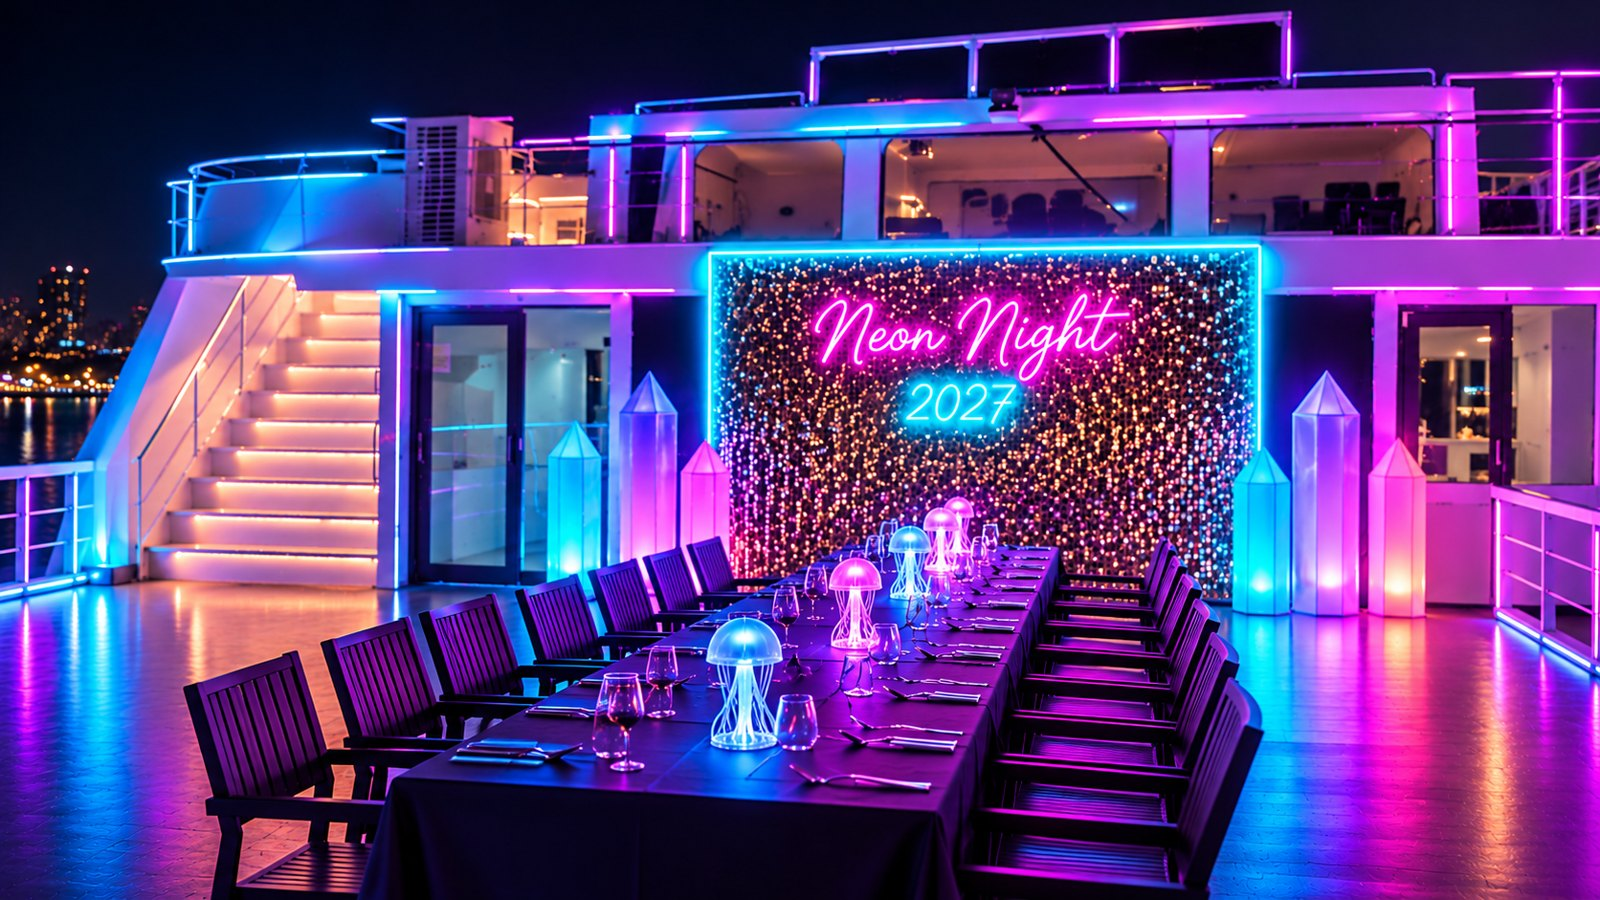
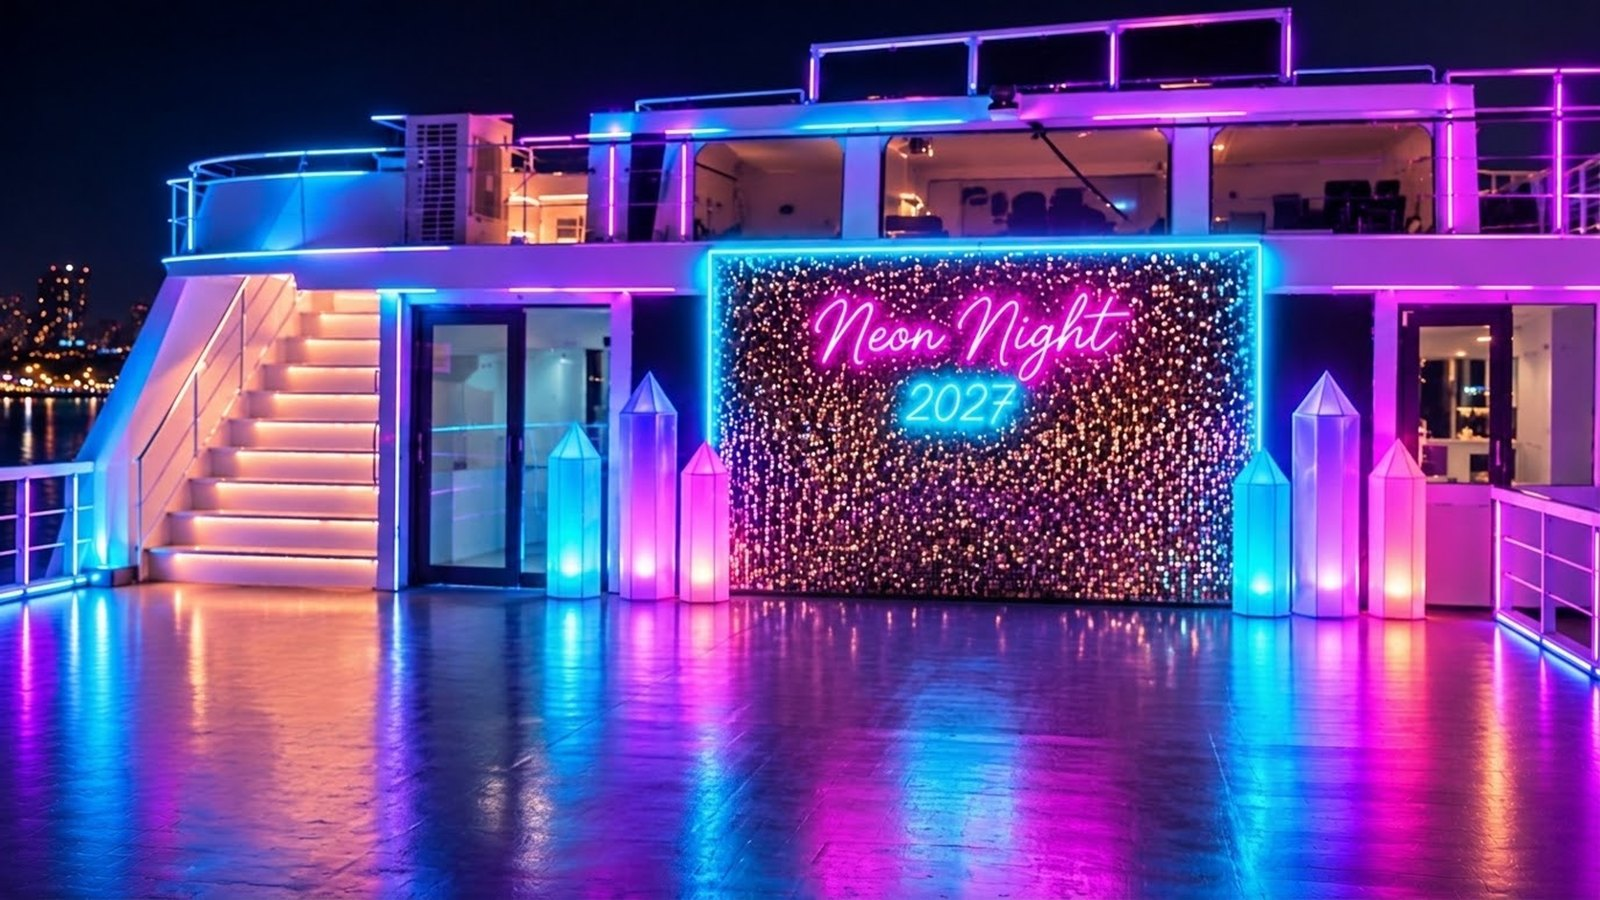
Client 20-11: bow concept picture re-made without tables/chairs (Flow edit) -> zone card + gallery; image cache-bust

diff --git a/app.js b/app.js
@@ -83,7 +83,7 @@ const PLACES = [
     items: {th: ['จอ LED 3×2 ม. ของเรือ แสดงกราฟิก NEON NIGHT', 'กรอบนีออนม่วงรอบจอ และเส้นไฟชมพูหน้าเวที', 'ไฟบีม 8 ตัวยิงขึ้นฟ้า และไฟ PAR 8 ตัว วางพื้นข้างเวที', 'ป้ายนีออน NEON NIGHT ข้างจอ 2 ป้าย'],
       en: ['The boat\u2019s 3 × 2 m LED screen shows the NEON NIGHT graphic', 'Violet neon frame around the screen, pink line along the stage front', '8 beam lights into the sky and 8 PAR lights on the deck beside the stage', 'Two NEON NIGHT neon signs beside the screen']},
     cam: {p: [2.468, 5.047, 0.635], t: [16.6, 5.047, 0.635]}, pin: [16.6, 7.6, 0]},
-  {id: 'bow', imgs: ['3d_bow'], dot: '#D9A85A', seats: 0,
+  {id: 'bow', imgs: ['teen-bow', '3d_bow'], dot: '#D9A85A', seats: 0,
     name: {th: 'หัวเรือชั้น 2 · โฟโต้บูธ', en: 'Bow deck · photo booth'}, sub: {th: 'ลานถ่ายรูปเปิดโล่ง ไม่มีที่นั่ง', en: 'Open photo-booth deck, no seating'},
     items: {th: ['ผนังถ่ายรูปชิมเมอร์ทอง 4×2 ม. ป้ายนีออน "Neon Night 2027"', 'คริสตัลเรืองแสงข้างละ 3 ชิ้น', 'ไฟส่องผนังและไฟส่องหน้า ให้ภาพถ่ายสวย', 'ไม่มีโต๊ะและที่นั่ง ลานโล่งให้แขกต่อคิวและถ่ายรูปได้สะดวก'],
       en: ['4 × 2 m gold shimmer photo wall with a "Neon Night 2027" neon sign', 'Three glowing crystals on each side', 'Wall and face lighting set for good photos', 'No tables or seats: open deck so guests can queue and take photos easily']},
@@ -121,7 +121,7 @@ function renderText() {
   document.querySelectorAll('[data-t]').forEach(el => { const v = T[lang][el.dataset.t]; if (typeof v === 'string') el.textContent = v; });
   document.querySelectorAll('.lang button').forEach(b => b.classList.toggle('on', b.dataset.lang === lang));
   $('#zsplit').classList.toggle('on', splitOn);
-  $('#zgrid').innerHTML = PLACES.map(p => `<button data-zone="${p.id}" class="${shown === p.id ? 'on' : ''}"><img loading="lazy" src="assets/img/${p.imgs[0]}-s.jpg" alt=""><span>${esc(p.name[lang])}</span></button>`).join('');
+  $('#zgrid').innerHTML = PLACES.map(p => `<button data-zone="${p.id}" class="${shown === p.id ? 'on' : ''}"><img loading="lazy" src="assets/img/${p.imgs[0]}-s.jpg?v=20261120" alt=""><span>${esc(p.name[lang])}</span></button>`).join('');
   $('#steps').innerHTML = STEPS[lang].map(([a, b]) => `<li><b>${esc(a)}</b><span>${esc(b)}</span></li>`).join('');
   const rail = $('#rail');
   if (rail) rail.innerHTML = PLACES.map(p => `<button data-id="${p.id}" class="${current === p.id ? 'on' : ''}" aria-label="${esc(p.name[lang])}"><svg viewBox="0 0 24 24">${ICON[p.id]}</svg><span>${esc(p.name[lang])}</span></button>`).join('')
@@ -136,7 +136,7 @@ function renderPins() {
 }
 function renderFeat() {
   const k = PLACES.findIndex(p => p.id === (current || shown)), p = PLACES[k];
-  $('#feat').innerHTML = `<button class="th zoomable" data-src="assets/img/${p.imgs[0]}.jpg" data-cap="${esc(p.name[lang])}"><img src="assets/img/${p.imgs[0]}-s.jpg" alt=""></button>
+  $('#feat').innerHTML = `<button class="th zoomable" data-src="assets/img/${p.imgs[0]}.jpg?v=20261120" data-cap="${esc(p.name[lang])}"><img src="assets/img/${p.imgs[0]}-s.jpg?v=20261120" alt=""></button>
     <div class="b"><div class="k"><span>${esc(T[lang].k_zone)}</span><span>${String(k + 1).padStart(2, '0')} / ${String(PLACES.length).padStart(2, '0')}</span></div>
     <h3>${esc(p.name[lang])}</h3><p>${esc(p.items[lang][0])}</p>
     <div class="row"><button class="more" data-more="1">${esc(T[lang].more)} →</button>
@@ -148,8 +148,8 @@ function renderZone() {
   $('#zname').textContent = p.name[lang];
   $('#zseats').textContent = p.seats ? T[lang].seats(p.seats) : p.sub[lang];
   gi = Math.min(gi, p.imgs.length - 1);
-  const g = $('#gmain'); g.dataset.src = `assets/img/${p.imgs[gi]}.jpg`; g.dataset.cap = p.name[lang]; g.querySelector('img').src = `assets/img/${p.imgs[gi]}.jpg`;
-  $('#gthumbs').innerHTML = p.imgs.length > 1 ? p.imgs.map((f, i) => `<button data-gi="${i}" class="${i === gi ? 'on' : ''}"><img src="assets/img/${f}-s.jpg" alt=""></button>`).join('') : '';
+  const g = $('#gmain'); g.dataset.src = `assets/img/${p.imgs[gi]}.jpg?v=20261120`; g.dataset.cap = p.name[lang]; g.querySelector('img').src = `assets/img/${p.imgs[gi]}.jpg?v=20261120`;
+  $('#gthumbs').innerHTML = p.imgs.length > 1 ? p.imgs.map((f, i) => `<button data-gi="${i}" class="${i === gi ? 'on' : ''}"><img src="assets/img/${f}-s.jpg?v=20261120" alt=""></button>`).join('') : '';
   $('#zitems').style.setProperty('--dot', p.dot);
   $('#zitems').innerHTML = p.items[lang].map(i => `<li>${esc(i)}</li>`).join('');
   document.querySelectorAll('#zgrid button').forEach(b => b.classList.toggle('on', b.dataset.zone === shown));
@@ -352,13 +352,12 @@ Object.assign(MAT, {MH_Black: std({color: 0x121216, roughness: .5}), MH_Lens_pin
 const boat = new THREE.Group(); scene.add(boat);
 /* ZCARDS-BEGIN */
 const ZCARDS = {"bow": {"w": 11.259, "h": 6.337, "pos": [17.27, 3.544, 1.387], "rotY": 1.5708, "cam": {"p": [26.64, 3.544, 1.387], "t": [17.27, 3.544, 1.387]}}, "stage": {"w": 16.981, "h": 4.048, "pos": [16.6, 5.047, 0.635], "rotY": -1.5708, "cam": {"p": [2.468, 5.047, 0.635], "t": [16.6, 5.047, 0.635]}}, "roof": {"w": 14.679, "h": 5.826, "pos": [0.0, 5.123, -5.25], "rotY": 0.0, "cam": {"p": [0.0, 5.123, 6.966], "t": [0.0, 5.123, -5.25]}}, "pier": {"w": 15.339, "h": 8.633, "pos": [-9.8, 2.556, 9.88], "rotY": 0.0, "cam": {"p": [-9.8, 2.556, 22.646], "t": [-9.8, 2.556, 9.88]}}, "l1": {"w": 22.582, "h": 12.702, "pos": [17.25, 2.02, 0.263], "rotY": -1.5708, "cam": {"p": [-1.544, 2.02, 0.263], "t": [17.25, 2.02, 0.263]}}, "l2": {"w": 9.923, "h": 3.976, "pos": [16.46, 3.451, 0.334], "rotY": -1.5708, "cam": {"p": [8.202, 3.451, 0.334], "t": [16.46, 3.451, 0.334]}}};
-delete ZCARDS.bow;   // 19-11 client: bow = photo booth, no seats -> Teen's picture (with the banquet table) not shown; 3D view only
 const zcard = {};   // Teen's zone pictures at true scale (measured anchors), shown only in that zone's view
 for (const [k, c] of Object.entries(ZCARDS)) {
-  const tx = new THREE.TextureLoader().load(`assets/zcard_${k}.jpg`); tx.colorSpace = THREE.SRGBColorSpace; tx.anisotropy = 8;
+  const tx = new THREE.TextureLoader().load(`assets/zcard_${k}.jpg?v=20261120`); tx.colorSpace = THREE.SRGBColorSpace; tx.anisotropy = 8;
   const m = new THREE.Mesh(new THREE.PlaneGeometry(c.w, c.h), new THREE.MeshBasicMaterial({map: tx, fog: false, toneMapped: false, color: 0xffffff, depthTest: false, depthWrite: false}));   // OPAQUE: replaces the 3D
   m.position.set(...c.pos); m.rotation.y = c.rotY; m.renderOrder = 30; m.visible = false; m.name = 'ZCard_' + k; boat.add(m); zcard[k] = m;
-  const bt = new THREE.TextureLoader().load(`assets/zblur_${k}.jpg`); bt.colorSpace = THREE.SRGBColorSpace;
+  const bt = new THREE.TextureLoader().load(`assets/zblur_${k}.jpg?v=20261120`); bt.colorSpace = THREE.SRGBColorSpace;
   const bs = Math.max(c.w, c.h) * 4;
   const bd = new THREE.Mesh(new THREE.PlaneGeometry(bs, bs), new THREE.MeshBasicMaterial({map: bt, fog: false, toneMapped: false, depthTest: false, depthWrite: false}));
   bd.position.z = -0.05; bd.renderOrder = 29; bd.name = 'ZCardBackdrop_' + k; m.add(bd);   // CARDBACKDROP (blurred copy fills the whole view)

diff --git a/index.html b/index.html
@@ -121,6 +121,6 @@
 </footer>
 
 <div class="lb" id="lb" hidden><button class="x" aria-label="Close">×</button><img alt=""><p></p></div>
-<script type="module" src="app.js?v=202611201330"></script>
+<script type="module" src="app.js?v=202611201400"></script>
 </body>
 </html>
